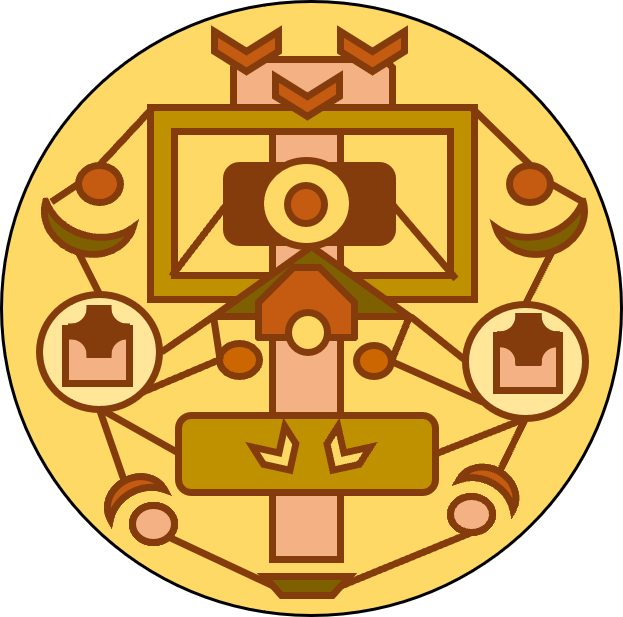
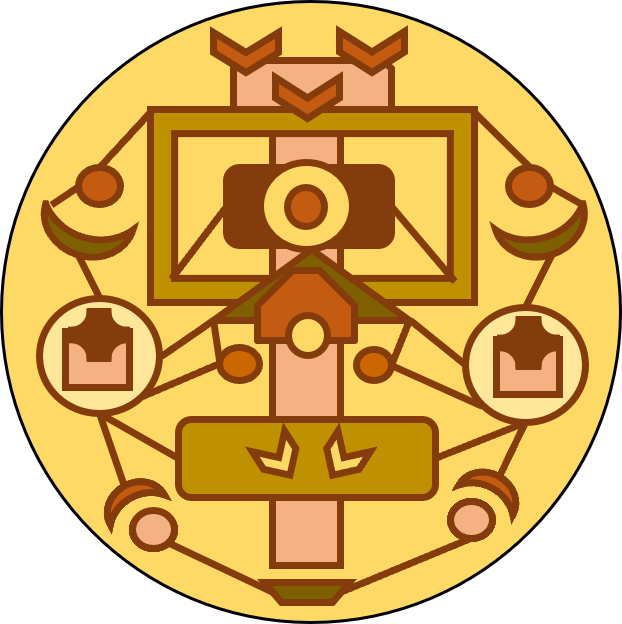
X axis rotation implemented

diff --git a/app/src/main/java/com/ndds/freedomclouds/CustomRenderer.java b/app/src/main/java/com/ndds/freedomclouds/CustomRenderer.java
@@ -5,7 +5,6 @@ import android.graphics.Bitmap;
 import android.graphics.BitmapFactory;
 import android.graphics.Canvas;
 import android.graphics.Paint;
-import android.graphics.Rect;
 import android.opengl.GLES20;
 import android.opengl.GLSurfaceView;
 import android.opengl.GLUtils;
@@ -17,7 +16,8 @@ import javax.microedition.khronos.egl.EGLConfig;
 import javax.microedition.khronos.opengles.GL10;
 
 class CustomRenderer implements GLSurfaceView.Renderer {
-    public volatile float mAngle;
+    public volatile float mAngleX;
+    public volatile float mAngleY;
     Context context;
     private Circle textureCircle2;
     private Circle outlineCircle1;
@@ -30,8 +30,11 @@ class CustomRenderer implements GLSurfaceView.Renderer {
     int emblemCount;
     private String[] emblemTypes;
 
-    public float getAngle() {
-        return mAngle;
+    public float getAngleX() {
+        return mAngleX;
+    }
+    public float getAngleY() {
+        return mAngleY;
     }
     CustomRenderer(Context context, OpenGLScreen surfaceView, ArrayList<Bitmap> bitmaps, String[] emblemTypes){
         this.emblemTypes = emblemTypes;
@@ -47,8 +50,11 @@ class CustomRenderer implements GLSurfaceView.Renderer {
         this.surfaceView = surfaceView;
         this.context = context;
     }
-    public void setAngle(float angle) {
-        mAngle = angle;
+    public void setAngleX(float angleX) {
+        mAngleX = angleX;
+    }
+    public void setAngleY(float angleY) {
+        mAngleY = angleY;
     }
     public static final String vertexShaderCode =
             // This matrix member variable provides a hook to manipulate
@@ -129,13 +135,14 @@ class CustomRenderer implements GLSurfaceView.Renderer {
 
         GLES20.glGenTextures(textures.length, textures, 0);
 
+        Bitmap background = BitmapFactory.decodeResource(surfaceView.activity.getResources(),R.drawable.emblem_background);
+        Paint paint = new Paint();
         Bitmap emblemBack = getImage(R.drawable.emblem_back);
-        Bitmap glow = getImage(R.drawable.emble_glowm);
+        Bitmap glow = wrapInsideBackground(getImage(R.drawable.emble_glowm),background,paint);
 
         bindPicture(emblemBack,0);
         bindPicture(glow,1);
-        Bitmap background = BitmapFactory.decodeResource(surfaceView.activity.getResources(),R.drawable.emblem_background);
-        Paint paint = new Paint();
+
         for (int i = 0; i < emblemImages.length; i++) {
             bindPicture(flipImage(wrapInsideBackground(emblemImages[i],background,paint)),i+2);
         }
@@ -164,6 +171,7 @@ class CustomRenderer implements GLSurfaceView.Renderer {
     private final float[] projectionMatrix = new float[16];
     private final float[] viewMatrix = new float[16];
     private float[] rotationMatrix = new float[16];
+    private float[] rotationMatrixY = new float[16];
     private float[] outlineTranslator = new float[16];
     @Override
     public void onSurfaceChanged(GL10 gl, int width, int height) {
@@ -190,10 +198,11 @@ class CustomRenderer implements GLSurfaceView.Renderer {
 
         // Create a rotation transformation for the triangle
         Matrix.setIdentityM(rotationMatrix,0);
+        Matrix.setIdentityM(rotationMatrixY,0);
         Matrix.setIdentityM(outlineTranslator,0);
         if(quickSpinAngle > 0){
             quickSpinAngle -= 10;
-            mAngle+= 10;
+            mAngleX += 10;
             if(quickSpinAngle <= 0){
                 doGlow = -1;
             }
@@ -202,8 +211,8 @@ class CustomRenderer implements GLSurfaceView.Renderer {
             if((doGlow == 1 && blendFactor < 1.0f) || (doGlow==-1 && blendFactor > 0.0f))
                     blendFactor += (doGlow * 0.05f);
             else{
-
-                quickSpinAngle = (360 * 3) - (mAngle % 360);
+                mAngleY = 0;
+                quickSpinAngle = (360 * 3) - (mAngleX % 360);
                 quickSpinAngle *= doGlow;
 
                 doGlow = 0;
@@ -214,30 +223,41 @@ class CustomRenderer implements GLSurfaceView.Renderer {
             }
         }
         if(surfaceView.autoRotate && quickSpinAngle < 1){
-                if ((Math.abs(mAngle) % (360 * emblemCount)) > 10) {
-                    if (mAngle > 0)
-                        mAngle -= 10;
-                    else
-                        mAngle += 10;
+                boolean shouldRotateX = (Math.abs(mAngleX) % 360) > 10;
+                boolean shouldRotateY = Math.abs(mAngleY) > 10;
+                if (shouldRotateX || shouldRotateY) {
+                    if(shouldRotateX) {
+                        if (mAngleX > 0)
+                            mAngleX -= 10;
+                        else
+                            mAngleX += 10;
+                    }
+                    if(shouldRotateY){
+                        if (mAngleY > 0)
+                            mAngleY -= 10;
+                        else
+                            mAngleY += 10;
+                    }
                 } else {
-                    mAngle = mAngle - (Math.abs(mAngle) % (360 * emblemCount));
+                    mAngleX = mAngleX - (mAngleX % 360);
+                    mAngleY = 0;
                     surfaceView.autoRotate = false;
                     surfaceView.setRenderMode(GLSurfaceView.RENDERMODE_WHEN_DIRTY);
                     surfaceView.requestRender();
                 }
-
         }
-        Matrix.rotateM(rotationMatrix, 0, mAngle, 0,  1.0f, 0);
-
+        Matrix.rotateM(rotationMatrix, 0, mAngleX, 0,  1.0f, 0);
+        Matrix.rotateM(rotationMatrixY, 0, mAngleY, 1.0f,  0, 0);
         // Combine the rotation matrix with the projection and camera view
         // Note that the vPMatrix factor *must be first* in order
         // for the matrix multiplication product to be correct.
         Matrix.multiplyMM(scratch, 0, vPMatrix, 0, rotationMatrix, 0);
+        Matrix.multiplyMM(scratch, 0, scratch, 0, rotationMatrixY, 0);
         int vPMatrixHandle = GLES20.glGetUniformLocation(program, "uMVPMatrix");
         // Pass the projection and view transformation to the shader
         GLES20.glUniformMatrix4fv(vPMatrixHandle, 1, false, scratch, 0);
-        int n = Math.abs((int) (mAngle/360));
-        int k = (int) ((Math.abs(mAngle) + 90)/360);
+        int n = Math.abs((int) (mAngleX /360));
+        int k = (int) ((Math.abs(mAngleX) + 90)/360);
         if(currentN != k%emblemCount) {
             surfaceView.activity.setEmblemTypeText(emblemTypes[k%emblemCount]);
             currentN = k%emblemCount;
@@ -245,7 +265,7 @@ class CustomRenderer implements GLSurfaceView.Renderer {
         if(quickSpinAngle > 0 || doGlow!=0)
             textureCircle1.draw(scratch,textures[2 + Math.abs(n%emblemCount)],textures[1],blendFactor);
         else
-            textureCircle1.draw(scratch,textures[2 + Math.abs(n%emblemCount)],textures[2 + Math.abs((n+ 1)%emblemCount)],calculateTransitionFadeFactor(Math.abs(mAngle) % 360));
+            textureCircle1.draw(scratch,textures[2 + Math.abs(n%emblemCount)],textures[2 + Math.abs((n+ 1)%emblemCount)],calculateTransitionFadeFactor(Math.abs(mAngleX) % 360));
         cylinder.draw(scratch);
         textureCircle2.draw(scratch,textures[0],-99,0);
         Matrix.translateM(outlineTranslator,0,0,0,0.5f);

diff --git a/app/src/main/java/com/ndds/freedomclouds/OpenGLScreen.java b/app/src/main/java/com/ndds/freedomclouds/OpenGLScreen.java
@@ -34,7 +34,8 @@ public class OpenGLScreen extends GLSurfaceView {
     private final float TOUCH_SCALE_FACTOR = 180.0f / 320;
     private float previousX;
     private float previousY;
-    public boolean quickSpinEnabled = false;
+    private float downY;
+    private float downX;
     private Handler handler = new Handler();
     public void glow(){
         if(getTag().equals("2"))
@@ -43,9 +44,6 @@ public class OpenGLScreen extends GLSurfaceView {
         customRenderer.doGlow = 1;
         setRenderMode(GLSurfaceView.RENDERMODE_CONTINUOUSLY);
         requestRender();
-    }
-    public void quickSpin(){
-        quickSpinEnabled = true;
     }
     Handler idleHandler;
     ObjectAnimator idleAnimator;
@@ -56,11 +54,13 @@ public class OpenGLScreen extends GLSurfaceView {
     @Override
     public boolean onTouchEvent(MotionEvent e) {
         float x = e.getX();
-//        float y = e.getY();
+        float y = e.getY();
 
         switch (e.getAction()) {
             case MotionEvent.ACTION_DOWN:
                 this.autoRotate = false;
+                this.downY = y;
+                this.downX = x;
                 idleAnimator.end();
                 idleHandler.removeCallbacksAndMessages(null);
                 handler.removeCallbacksAndMessages(null);
@@ -89,8 +89,9 @@ public class OpenGLScreen extends GLSurfaceView {
             case MotionEvent.ACTION_MOVE:
 
                 float dx = x - previousX;
-//                float dy = y - previousY;
-                float factor = 1.0f;
+                float dy = y - previousY;
+//                float factorX = 1.0f;
+//                float factorY = -1.0f;
                 // reverse direction of rotation above the mid-line
 //                if (y > getHeight() / 2) {
 //                    dx = dx * -1 ;
@@ -98,21 +99,37 @@ public class OpenGLScreen extends GLSurfaceView {
 //                if(Math.abs(dx) < 10)
 //                    return true;
                 // reverse direction of rotation to left of the mid-line
-                if (x < getWidth() / 2) {
-                    factor = -1.0f;
-                    //dy = dy * -1 ;
+//                if (y > getHeight() / 2) {
+//                    factorY = 1.0f;
+//                    //dy = dy * -1 ;
+//                }
+//                if (x < getWidth() / 2) {
+//                    factorX = -1.0f;
+//                    //dy = dy * -1 ;
+//                }
+                if (Math.abs(y-downY) > 50) {
+
+
+                    customRenderer.setAngleY(
+                            customRenderer.getAngleY() +
+                                    ((dy) * TOUCH_SCALE_FACTOR));
+                }else{
+                    customRenderer.setAngleX(
+                            customRenderer.getAngleX() +
+                                    ((dx) * TOUCH_SCALE_FACTOR));
+
                 }
-                customRenderer.setAngle(
-                        customRenderer.getAngle() +
-                                ((dx + factor) * TOUCH_SCALE_FACTOR));
+
+
 //                customRenderer.setAngle(
 //                        customRenderer.getAngle() +
 //                                ((dx + dy) * TOUCH_SCALE_FACTOR));
                 requestRender();
+                break;
         }
 
         previousX = x;
-//        previousY = y;
+        previousY = y;
         return true;
 
     }

diff --git a/app/src/main/java/com/ndds/freedomclouds/MainActivity.java b/app/src/main/java/com/ndds/freedomclouds/MainActivity.java
@@ -141,6 +141,7 @@ public class MainActivity extends AppCompatActivity implements DatePickerDialog.
                 splashOverlay.setVisibility(View.GONE);
 
                 if(!sharedPreferences.contains(START_TIME)) {
+                    ((TextView) findViewById(R.id.emblemType)).setText("The Gift");
                     initOpenGL(2);
                     showInstruction();
                 }else
@@ -153,11 +154,6 @@ public class MainActivity extends AppCompatActivity implements DatePickerDialog.
             }
         });
         findViewById(R.id.splash_overlay).startAnimation(slideUpAnimation);
-
-//        View dashboard = getLayoutInflater().inflate(R.layout.dashboard,null);
-//
-//        ((ViewGroup)findViewById(R.id.root)).addView(dashboard, new FrameLayout.LayoutParams(FrameLayout.LayoutParams.MATCH_PARENT,FrameLayout.LayoutParams.WRAP_CONTENT, Gravity.BOTTOM));
-//        findViewById(R.id.interface_container).setZ();
         View v = findViewById(R.id.rotate_hint);
         rotateHintAnimator = ObjectAnimator.ofFloat(v, "alpha", 0, 1);
         rotateHintAnimator.setRepeatMode(ValueAnimator.REVERSE);

diff --git a/app/src/main/java/com/ndds/freedomclouds/GiftRenderer.java b/app/src/main/java/com/ndds/freedomclouds/GiftRenderer.java
@@ -30,7 +30,7 @@ class GiftRenderer extends CustomRenderer implements GLSurfaceView.Renderer{
         this.context = context;
     }
 
-    public void setAngle(float angle) {
+    public void setAngleX(float angle) {
         mAngle = angle;
     }
 
